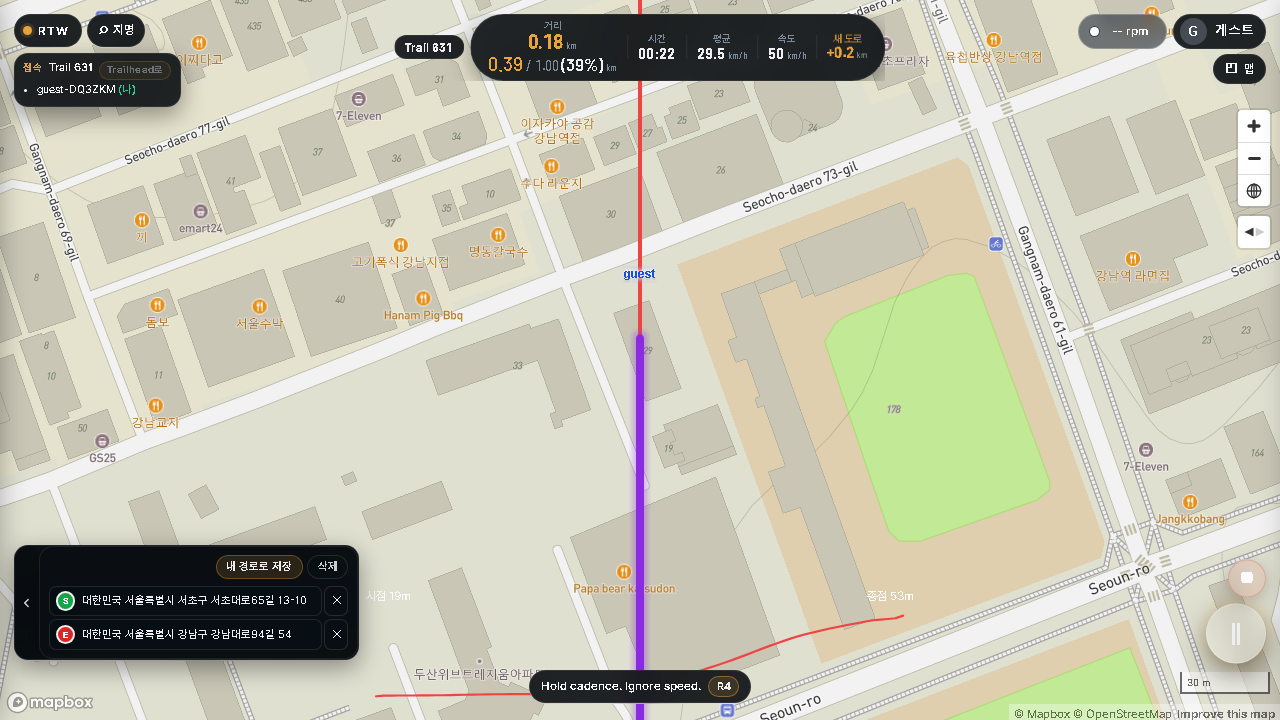
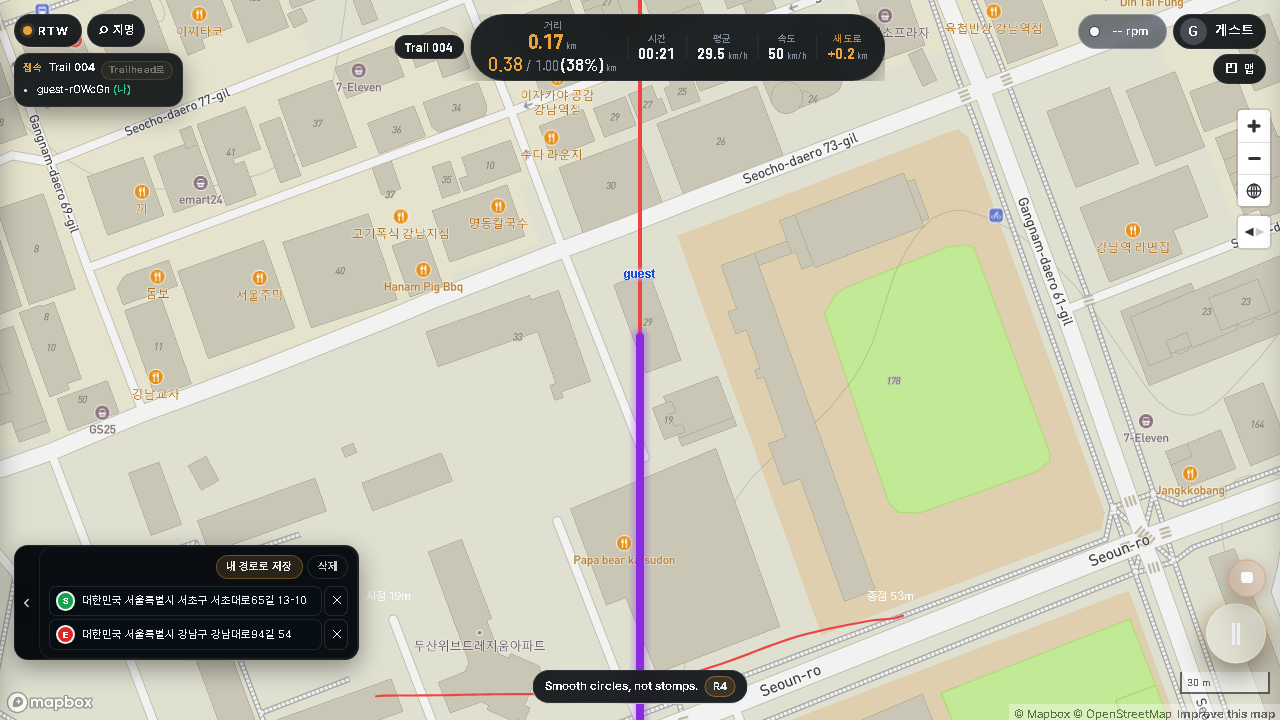
fix(route): 결과 시트를 닫으면 지도를 idle로 되돌려 다음 주행 카드를 띄운다
실주행 수용 1차 실패 — 결과 시트를 닫아도 카드가 나타나지 않고 reload 해야 보였다.

원인은 stage 충돌이다. 카드는 「Route 가 없는 idle 화면」의 표면인데(§3.1), 주행이
끝나도 방금 달린 Route·핀이 워크스페이스에 남아 stage 가 `ready-to-start` 로 머물렀다.
RouteDock 이 Go 를 다시 띄우고 카드는 조건을 만족하지 못해 숨었다. 카드를 stage 와
무관하게 띄우면 「카드와 확장된 RouteDock 을 동시에 표시하지 않는다」를 깨므로,
닫는 순간 워크스페이스를 비우는 쪽으로 고친다.

- `closeSummaryAndReturnToIdleMap()` — 닫기·스크림·ad-hoc 저장 완료가 모두 Route·핀·
  재개 후보를 비운다. 같은 경로는 카드의 「이어 달리기」가 다시 불러온다.
- 종료 시 `savedRoutes` 진행률 낙관 반영 — Firestore 왕복 전에도 카드가 올바른 재개
  지점을 보인다. 서버 transaction 과 같은 순수 정책이라 낮은 값으로 되돌리지 않는다.
- `progressToSave` 를 동기 구간으로 끌어올린다. 비동기 블록은 첫 await 뒤에 도는데
  그때는 `loadedSavedRouteProgressRef` 가 이미 0 으로 비워진 뒤라 max 보호가 무력했다.
- 재개점 마커 색을 골드(HUD 강조색)에서 「달린 길」과 같은 BlueViolet 으로 교정.

e2e C1 에 reload 없는 단언을 넣는다 — 결과 닫기 직후 카드 노출 + 재개 CTA +
`주행 시작` 부재. 화면 증거는 document/archive/ride-verify-evidence/ 에 남긴다.

훅 우회 사유: App.tsx 의 기존 react-hooks v7 baseline 위반에 파일 단위 lint 가 걸린다.
변경 파일 3종 lint 는 baseline 과 동일(E19 W5), 신규 진단 0건.

diff --git a/apps/web/src/hooks/useRideEndAndPersistence.ts b/apps/web/src/hooks/useRideEndAndPersistence.ts
@@ -23,6 +23,7 @@ import { MAX_ROUTE_WAYPOINTS } from "../lib/routeWaypoints";
 import { safeRideSpeechCancel } from "../lib/rideSpeech";
 import { loadRideSessions, saveRideSessions, type StoredRideSession } from "../lib/rideSessionsStorage";
 import { isDiscardableRideRecord, isRouteCompletion } from "../lib/rideRecordPolicy";
+import { resolveSavedRouteProgressUpdate } from "../lib/savedRouteProgressPolicy";
 import {
   loadSavedRoutesFromLocal,
   promoteSavedRouteInLocal,
@@ -179,6 +180,17 @@ export function useRideEndAndPersistence(options: UseRideEndAndPersistenceOption
     );
 
     /**
+     * 완주(≥98%)만 `completed:1` 로 격상하고 미완주는 진행률만 남긴다(§9.5).
+     * 진행률은 최대 도달점 유지 — 「처음부터 다시」 중간 종료가 기존 재개 지점을 지우지 않게 한다.
+     *
+     * ⚠ **동기 구간에서 계산한다.** 아래 비동기 블록은 첫 `await` 뒤에 실행되는데, 그때는
+     * 이 함수 끝에서 `loadedSavedRouteProgressRef.current = 0` 이 이미 실행된 뒤라
+     * 거기서 ref 를 읽으면 언제나 0 이었다(= max 보호가 무력화).
+     */
+    const rideCompletedRoute = isRouteCompletion(completionRatio);
+    const progressToSave = Math.max(completionRatio, previousProgressRatio);
+
+    /**
      * anchor 가 계획 핀과 사실상 같은 지점이면(전 구간 주행) 이미 확보한 지명을 그대로 쓴다.
      * 다르면(부분 주행) 아래 비동기 블록에서 anchor 좌표를 따로 역지오코딩한다.
      */
@@ -283,6 +295,41 @@ export function useRideEndAndPersistence(options: UseRideEndAndPersistenceOption
       });
     } else {
       setLastRideResult?.(null);
+    }
+
+    /**
+     * 진행률 낙관 반영(§3.5) — 결과 시트를 닫는 즉시 「다음 주행」 카드가 올바른 재개 후보를
+     * 보이려면, Firestore 왕복을 기다리지 않고 로컬 state 부터 올려야 한다.
+     * 규칙은 서버 transaction 과 동일한 순수 정책을 쓴다(낮은 값으로 되돌리지 않는다).
+     * 서버 판정이 오면 아래에서 그 값으로 정정한다.
+     */
+    if (!discardRecord && savedRouteIdAtEnd) {
+      const nowIso = new Date().toISOString();
+      setSavedRoutes((prev) =>
+        prev.map((r) => {
+          if (r.id !== savedRouteIdAtEnd) return r;
+          if (rideCompletedRoute) {
+            return {
+              ...r,
+              completed: 1,
+              completedAtIso: r.completedAtIso ?? nowIso,
+              expiresAtIso: null,
+              lastProgressRatio: 1,
+              updatedAtIso: nowIso,
+            };
+          }
+          const decision = resolveSavedRouteProgressUpdate(
+            { completed: r.completed, lastProgressRatio: r.lastProgressRatio },
+            progressToSave,
+          );
+          if (!decision.shouldWrite) return r;
+          return {
+            ...r,
+            lastProgressRatio: decision.nextProgressRatio,
+            updatedAtIso: nowIso,
+          };
+        }),
+      );
     }
 
     if (configured && !discardRecord) {
@@ -413,13 +460,6 @@ export function useRideEndAndPersistence(options: UseRideEndAndPersistenceOption
             markRouteActivityRideCompletedOptimistic(persistedPublicationId);
             onRideEndedWithPublication?.(persistedPublicationId);
           }
-          // 완주(≥98%)만 completed=1 로 격상. 미완주는 진행률만 저장해 「이어 달리기」로 남긴다(§9.5).
-          const rideCompletedRoute = isRouteCompletion(completionRatio);
-          // 진행률은 최대 도달점 유지 — "처음부터 다시" 중간 종료가 기존 재개 지점을 지우지 않게(§9.5.5 단위7)
-          const progressToSave = Math.max(
-            completionRatio,
-            Math.max(0, Math.min(1, loadedSavedRouteProgressRef?.current ?? 0)),
-          );
           if (savedRouteIdAtEnd && !savedRouteIdAtEnd.startsWith("local-")) {
             try {
               /**

diff --git a/apps/web/e2e/ride-continuation.spec.ts b/apps/web/e2e/ride-continuation.spec.ts
@@ -58,6 +58,12 @@ const U4_HUD_EVIDENCE_PATH = path.resolve(
   '../../document/archive/ride-verify-evidence/u4-hud-resume-dual.png',
 )
 
+/** U6 증거 — 결과 시트를 닫은 직후(reload 없이) 「다음 주행」 카드가 뜬 화면 */
+const C1_CARD_NO_RELOAD_EVIDENCE_PATH = path.resolve(
+  process.cwd(),
+  '../../document/archive/ride-verify-evidence/c1-next-ride-card-no-reload.png',
+)
+
 /** 게스트 진입 카드 → 익명 인증 완료 */
 async function enterAsGuest(page: Page) {
   await page.goto('/')
@@ -354,6 +360,22 @@ test.describe('다음 주행 · 이어 달리기', () => {
     await expect(summary.getByLabel('전체 진행')).toContainText('전체 진행 0% →')
     await expect(summary.getByText('다음 출발점이 저장되었습니다')).toBeVisible()
     await summary.getByRole('button', { name: '닫기' }).first().click()
+
+    /*
+     * U6 — **reload 없이** 결과를 닫는 즉시 카드가 나타나야 한다.
+     * 실주행 수용 실패의 원인은 stage 충돌이었다: 방금 달린 Route 가 지도에 남아
+     * `ready-to-start` 로 머물면 RouteDock 이 Go 를 다시 띄우고 카드는 숨는다.
+     * 그래서 「Go 가 없다」까지 함께 단언해 회귀를 고정한다.
+     */
+    const cardNoReload = nextRideCard(page)
+    await expect(cardNoReload).toBeVisible({ timeout: 15_000 })
+    await expect(page.getByRole('button', { name: '주행 시작' })).toHaveCount(0)
+    await expect(cardNoReload.getByRole('button', { name: /%에서 이어 달리기/ })).toBeVisible({
+      timeout: 15_000,
+    })
+    fs.mkdirSync(path.dirname(C1_CARD_NO_RELOAD_EVIDENCE_PATH), { recursive: true })
+    await page.screenshot({ path: C1_CARD_NO_RELOAD_EVIDENCE_PATH })
+    await page.screenshot({ path: testInfo.outputPath('c1-next-ride-card-no-reload.png') })
 
     // Firestore 진행률 반영을 기다린 뒤 재진입한다(결과 시트는 로컬 record 낙관 표시라 더 빠르다)
     await expect

diff --git a/apps/web/src/App.tsx b/apps/web/src/App.tsx
@@ -1767,12 +1767,25 @@ export default function App() {
     setPlaceSearchOpen(false);
   }
 
-  function handleCloseSummary() {
+  /**
+   * 결과 시트를 닫고 **지도를 idle 로 되돌린다**(§3.1·§3.5).
+   *
+   * ⚠ 방금 달린 Route 를 지도에 남겨 두면 stage 가 `ready-to-start` 로 머물러
+   * RouteDock 이 Go 를 다시 띄우고 「다음 주행」 카드는 숨는다 — 실주행에서 종료 직후
+   * 카드가 안 보이던 원인이 이 stage 충돌이었다. 카드는 「Route 가 없는 idle 화면」의
+   * 표면이므로, 결과를 닫는 순간 워크스페이스를 비워 카드가 즉시 나타나게 한다.
+   * 같은 경로를 다시 타려면 카드의 「이어 달리기」가 다시 불러온다(처음부터는 RouteDock 보조 선택).
+   */
+  function closeSummaryAndReturnToIdleMap() {
     setSummarySheetVisible(false);
     resetArrivalToast();
     setLastEndedWasAdhoc(null);
-    // 닫으면 지도 위 「다음 주행」 카드가 즉시 갱신된다(카드는 최근 Ride·SavedRoute 파생).
     setLastRideResult(null);
+    clearRoutePins(routeMenuLockedForProd);
+  }
+
+  function handleCloseSummary() {
+    closeSummaryAndReturnToIdleMap();
   }
 
   function handleModifyFromPause() {
@@ -2341,9 +2354,8 @@ export default function App() {
         suggestedName={suggestedRouteName}
         onSaveAdhoc={async (name, confirmUpdate) => {
           await handleSaveAdhocAsUserRoute(name, confirmUpdate);
-          setSummarySheetVisible(false);
-          resetArrivalToast();
-          setLastRideResult(null);
+          // 저장 후에도 같은 규칙 — 지도를 idle 로 되돌려야 카드가 다음 행동을 제시한다.
+          closeSummaryAndReturnToIdleMap();
         }}
         onDismissAdhoc={() => setLastEndedWasAdhoc(null)}
         onClose={handleCloseSummary}

diff --git a/apps/web/src/tokens.css b/apps/web/src/tokens.css
@@ -29,6 +29,12 @@
   --rtw-trace-accumulated: rgba(232, 163, 61, 0.4);
   --rtw-trace-warn-bg: rgba(232, 163, 61, 0.08);
   --rtw-trace-warn-border: rgba(232, 163, 61, 0.25);
+  /*
+   * 내가 달린 길(내 도로망·이번 주행 궤적) — 2026-08-27 결정의 BlueViolet.
+   * 지도 레이어의 SoT 는 `lib/rtwMapConfig.ts` 의 `RTW_TRACE_OWNED_COLOR` 이며,
+   * 이 토큰은 지도 밖 UI(재개점 마커 등)가 같은 색을 쓰기 위한 CSS 사본이다 — 함께 바꾼다.
+   */
+  --rtw-trace-owned: #8A2BE2;
 
   /* ---- 텍스트 ---- */
   --rtw-text-primary: #EDEFF2;

diff --git a/apps/web/src/components/map/MapView.css b/apps/web/src/components/map/MapView.css
@@ -669,8 +669,9 @@
 .map-view__resume-marker {
   padding: 0.2rem 0.45rem;
   border-radius: 999px;
-  background: var(--rtw-trace, #e93bd0);
-  color: #10151f;
+  /* 「달린 길」과 같은 색 — 골드(--rtw-trace)는 HUD 강조색이라 궤적 이야기와 어긋난다(2026-08-27 결정) */
+  background: var(--rtw-trace-owned, #8a2be2);
+  color: #f8fafc;
   font-size: 0.66rem;
   font-weight: 800;
   white-space: nowrap;

diff --git a/document/260707-RTW-기능-인벤토리-상태보드.md b/document/260707-RTW-기능-인벤토리-상태보드.md
@@ -95,6 +95,7 @@ mindmap
 | 3D 측면 카메라 건물 가림 | 🔶 | 알려진 문제. 주행 기본 2D로 완화 | 3D 유지 여부 결정 |
 | 슬로우 스타트/스톱 (고정속도 가감속) | ✅ | **구현(07-14)** — `rideSpeedRamp.ts`(고정 가속 +3/감속 -5 km/h/s) + `useVirtualRideSession`의 `appliedSpeedRef` 램핑. 시작(0→목표)·슬라이더 조작(상향/하향 모두) 시 서서히 수렴, 일시정지·종료는 즉시 정지(감속 연출 없음 — 반응성·기록 정확성 우선). HUD 속도·페달 애니메이션도 동일 곡선 동기화. Playwright 실측 검증(0→20km/h ~7초 선형 가속, 20→5 선형 감속, pause 즉시 정지) | — |
 | BLE 케이던스 **프로토콜 수신** (CSC `0x1816`) | ✅ | `useBleCrankRpm` + `lib/bleCscCadence.ts`(파서·rollover·정지 판정 순수 모듈, Node 시험 25건). Chromium·HTTPS/localhost | — |
+| **HUD 거리 이중 표기 (오늘 + 누적·진행률)** | ✅ | **구현(08-29, U4)** — 주행 중 거리 셀에 「오늘 N km」(세션)와 「누적 M / 전체 km (P%)」(경로 위치)를 함께 표시. 인정 축(운동·칼로리·Claim·기록)은 그대로 세션 구간. `aria-label="오늘 거리"`·`"누적 진행"` 으로 계약 고정, e2e C1 이 재개 직후 「누적 ≥ offset · 오늘 ≈ 0」 단언. 증거 `document/archive/ride-verify-evidence/u4-hud-resume-dual.png` | — |
 | **케이던스로 가상 주행 속도 직접 제어** | ✅ | **구현·실물 검증(08-27~28)** — 입력 모드 `manual`/`cadence` 분리, `cadence` 목표 속도 `min(30, rpm × 0.32)`(deadzone 8rpm), 단절·정지 시 목표 0(자동 manual fallback 없음). CYCPLUS C3 실주행 통과: P1~P7·P9·P10(연결·RPM 표시·페달링 전진·정지 감속·재개·일시정지). **미확인 P8·P11·P12**(주행 중 전원 차단·종료 후 연결 유지·명시적 체험 전환) | P8·P11·P12 단절 시나리오 |
 | **HUD 전역 센서 상태 칩** (계정 칩 왼쪽) | ✅ | **코드 반영(08-27, SENSOR-2)** — `CadenceHudChip` + `lib/cadenceSensorUi.ts`(흰/초록 LED 2색만, 주행 전 `CAD`·주행 중 `N rpm`, 장치명은 칩에 넣지 않음). 칩 클릭 → 전용 `CadenceSensorSheet`(장치 전체명·연결/해제·모드 전환·체험 속도). RouteDock·주행 설정·MENU 의 중복 센서 UI 제거. 표시 계약 Node 시험 17건. **실물 통과 H1~H6·H9·H13·H14**(칩 표시·상세 열림·chooser·장치명 분리·RPM 갱신·계정 버튼 충돌 없음·좁은/가로 화면). **미확인 H11·H12**(단절 후 재연결·manual 주행 중 센서 열기) | H11·H12 |
 | **주행 입력 준비 게이트 (Go 사전조건)** | ✅ | **코드 반영(08-27, SENSOR-2)** — `RideInputReadiness` 5상태. 기본 `manual` 초기값은 선택이 아니며, 「체험 속도로 준비」 명시 선택 또는 cadence 연결+**유효 RPM 1회 확인**이 있어야 Go 가능. Go 전 단절 시 준비 해제. `ride-entry` e2e 6건이 잠김·해제를 고정. **실물 통과(H5~H8)** — 준비 전 Go 잠김을 폰에서 실제로 겪고 해소 확인 | — |
@@ -102,6 +103,7 @@ mindmap
 | 허용된 센서 자동 복원·재연결 | 🔶 | **코드 반영(08-27)** — 최초 chooser 허용 뒤 같은 문서는 장치 참조를 보존하고, 페이지 복귀는 `getDevices()`의 명확한 단일 후보를 복원. 단절 시 광고 감지 + 0.5~10초 백오프로 GATT·CSC notification 재구성. 명시적 해제·백그라운드에서는 중단. 연결 복구 시 cadence 입력 모드도 복원 | CYCPLUS C3 유휴 단절→페달 wake 물리 검증. 최초 권한·브라우저/OS 한계 안내 유지 |
 | 고정속도 상한 15~18km/h | 🔶⚠ | T0 정책 15 설계 ↔ **개발완화 50 적용 중** | [출시 전 복원](출시%20전%20확인사항.md) |
 | **「다음 주행」 카드 (지도 위 다음 행동 주 표면)** | ✅ | **구현(08-29, RIDE-CONTINUE-1 단계 D·E)** — 최근 Ride + SavedRoute 에서 **파생**하는 후보(`lib/nextRideTarget.ts`, mutable pointer 문서 없음). idle 지도 좌하단 RouteDock anchor 자리에 「N%에서 이어 달리기」·「이 지점에서 새 경로」·「지도에서 보기」 제시. CTA 는 `ready-to-start` 까지만 만들고 실제 시작은 기존 Go·입력 준비 게이트 유지. 재개 준비 시 완료 구간 마젠타 / 남은 구간 빨강 / 「N% · 여기서 계속」 마커. 시험: `test:next-ride` 40건 + e2e C1·C2·C4 | — |
+| **주행 종료 후 idle 복귀** | ✅ | **수정(08-29, 실주행 수용 1차 실패 대응)** — 결과 시트를 닫으면 방금 달린 Route·핀·재개 후보를 비워 `stage` 를 idle 로 되돌린다. 이전에는 `ready-to-start` 로 머물러 RouteDock 이 Go 를 다시 띄우고 「다음 주행」 카드가 숨었다(reload 해야 보임). 종료 시 진행률 낙관 반영으로 Firestore 왕복 전에도 재개 지점이 정확하다. e2e C1 이 reload 없는 노출을 단언, 증거 `document/archive/ride-verify-evidence/c1-next-ride-card-no-reload.png` | — |
 | **실제 세션 시작·종료 anchor** | ✅ | **구현(08-29, RIDE-CONTINUE-1 단계 B)** — `rides` 에 `sessionStart/EndLngLat`·`RouteMeters`·`ProgressRatio`·실제 세션 지명 저장. 계획된 `endLngLat` 이 아니라 **실제 종료 누적 거리 지점**이 다음 출발점이 된다. `liveForMap` 과 같은 경계 함수(`routeProgressMath.ts`)를 공유하고, geometry 가 없으면 좌표는 null(추측 금지·legacy backfill 없음) | — |
 | **모든 유효 Ride 결과 시트** | ✅ | **구현(08-29, RIDE-CONTINUE-1 단계 C)** — 도착·ad-hoc 여부로 노출을 제한하던 조건을 폐기하고 `isDiscardableRideRecord` 를 통과한 모든 Ride 가 결과를 연다. 미완주는 「전체 진행 31% → 43%」, 완주는 「경로를 완주했습니다」, 공통으로 「다음 출발점이 저장되었습니다」 + 새 경로 연결 CTA. ad-hoc 저장은 보조 액션이 되고 「저장 안 하면 잃는다」 경고는 제거 | — |
 | **최근 주행 행 액션** | ✅ | **구현(08-29, RIDE-CONTINUE-1 단계 F)** — 읽기 전용 목록에 지도에서 보기·이어 달리기·여기서 새 경로를 붙였다(중첩 button 없는 row action 구조). 실제 종료점이 없는 legacy Ride 는 기록만 표시하고 CTA 를 만들지 않는다(e2e C5) | — |

diff --git a/document/260707-RTW-결정-로그.md b/document/260707-RTW-결정-로그.md
@@ -12,6 +12,7 @@
 
 | 날짜 | 태그 | 결정 | 이유 (한 줄) | 근거·상세 |
 |---|---|---|---|---|
+| 2026-08-29 | `[Route]` `[UI]` | **주행 결과 시트를 닫으면 지도를 idle 로 되돌린다** — 방금 달린 Route·핀·재개 후보를 워크스페이스에서 비우고, 그 자리에 「다음 주행」 카드를 띄운다. 같은 경로를 다시 타려면 카드의 「이어 달리기」가 다시 불러오고, 「처음부터」는 그 뒤 RouteDock 보조 선택으로 남는다. 아울러 종료 시 진행률을 **낙관 반영**해 Firestore 왕복 전에도 카드가 올바른 재개 지점을 보인다 | 실주행 수용 1차 실패의 원인 — 결과를 닫아도 방금 달린 Route 가 지도에 남아 stage 가 `ready-to-start` 로 머물렀고, RouteDock 이 Go 를 다시 띄우면서 카드는 「Route 없는 idle」 조건을 만족하지 못해 숨었다. reload 해야 카드가 보이는 상태는 「어제 멈춘 곳이 오늘 자동으로 다음 출발점이 된다」를 만족하지 못한다 | [작업지시서 §12.4](ops/ride-relay/260829-다음-주행-이어달리기-작업지시서.md) · 증거 `document/archive/ride-verify-evidence/c1-next-ride-card-no-reload.png` · e2e C1 |
 | 2026-08-29 | `[Route]` `[UI]` | **HUD 거리 이중 표기 확정** — 주행 중 거리 셀에 **오늘 N km**(세션 실주행)와 **누적 M / 전체 km (P%)**(경로 위치·진행률)를 함께 표시한다. 운동·칼로리·Claim·Ride 기록은 기존처럼 세션 구간만 인정(`virtualDistance − offset`, `fromMeters`). `aria-label="오늘 거리"`·`"누적 진행"`으로 E2E 계약 고정 | RIDE-CONTINUE-1 구현 당시 HUD 는 「오늘 / 전체」만 보여 U4(위치는 누적)와 어긋났다 — 재개 주행에서 「얼마나 더 달렸나(오늘)」와 「경로 어디까지 왔나(누적)」를 한 화면에 분리해 보여 줘야 이어 달리기 판타지가 성립 | `MapHud.tsx` · `App.tsx` · `ride-continuation.spec.ts` · [작업지시서 U4](ops/ride-relay/260829-다음-주행-이어달리기-작업지시서.md) |
 | 2026-08-29 | `[Route]` `[Infra]` | **RIDE-CONTINUE-1 구현 확정** — ① 진행률의 진실을 **서버 문서**로 옮겼다: `updateSavedRouteProgressInFirestore` 를 transaction 으로 바꿔 `max(server, requested)` 를 보장하고, 완주 문서는 되돌리지 않으며 stale write 는 `lastRideId` 도 덮지 않는다(규칙은 순수 모듈 `savedRouteProgressPolicy.ts` 하나로 로컬·중복 저장과 공유) ② 다음 주행 후보는 pointer 문서 없이 최근 Ride + SavedRoute 파생, 재개점의 진실은 **SavedRoute 의 `lastProgressRatio`**(최근 Ride 종료 좌표가 아니다) ③ 카드는 SavedRoute 첫 로드가 끝나기 전에는 뜨지 않는다 — 빈 목록으로 재개 가능한 Route 를 놓치고 「새 경로」로 잘못 제시하는 창을 막는다 ④ ~~HUD 거리 표기는 이번 범위에서 바꾸지 않았다~~ → **후속 결정으로 U4 HUD 이중 표기 반영**(위 항목) | 클라이언트가 계산한 `max` 를 그대로 덮어쓰면 다른 탭·기기의 늦은 낮은 진행률이 높은 진행률을 되돌린다 — 「어제 멈춘 곳」이 조용히 뒤로 밀리는 건 이 기능의 전제를 깨는 실패다. 후보를 파생으로 두면 Route 삭제·완주 시 카드가 자동 무효화되어 stale 상태를 시작할 수 없다 | [RIDE-CONTINUE-1 작업지시서](ops/ride-relay/260829-다음-주행-이어달리기-작업지시서.md) · `lib/savedRouteProgressPolicy.ts` · `lib/nextRideTarget.ts` · `lib/rideSessionAnchors.ts` |
 | 2026-08-29 | `[Product]` `[Route]` `[UI]` | **최근 Ride를 기록에서 다음 행동으로 연결** — 모든 유효 Ride 종료 후 결과 시트를 열고 실제 세션 종료 좌표를 사용자 전용 Ride에 저장한다. idle 지도는 최근 Ride+SavedRoute에서 파생한 **「다음 주행」** 카드를 먼저 보여 준다. 미완주 SavedRoute는 기존 진행점에서 재개하고, 완주·ad-hoc·Publication Ride는 실제 종료점에서 새 Route를 만든다. 카드 CTA는 Route 준비까지만 수행하며 실제 시작은 기존 Go·입력 준비 게이트를 유지한다. SavedRoute geometry는 mutate하지 않고 `Journey` 용어·새 모델도 이번에 확정하지 않는다. | 현행 이어 달리기는 계산상 구현됐지만 `MENU→내 경로→선택→열기` 뒤에 숨고 재개 후보도 주행 시작 때 소멸한다. 최근 주행은 읽기 전용이며 실제 종료 좌표도 없어, 어제의 끝이 오늘의 시작으로 자동 이어지지 않는다. 별도 주행일지 없이 지도가 다음 행동을 기억해야 개인 도로망 축적 루프가 성립한다. | [RIDE-CONTINUE-1 작업지시서](ops/ride-relay/260829-다음-주행-이어달리기-작업지시서.md) · [Conquest §9.5](260703-Conquest-정복-레이어-설계.md) |

diff --git a/document/ops/ride-relay/260829-다음-주행-이어달리기-작업지시서.md b/document/ops/ride-relay/260829-다음-주행-이어달리기-작업지시서.md
@@ -657,9 +657,34 @@ npm run test:e2e:ride-continuation
 | `npm run test:e2e:ride-continuation` | **C1~C5 5 pass / 0 fail** (4.9분) |
 | lint(변경 파일 20개) | 변경 전 E22 W13 → 변경 후 **E22 W13**, 신규 진단 **0건** |
 
-### 12.3 남은 항목 (병합 전 판단 필요)
+### 12.3 실주행 수용 1차 실패와 수정 (2026-08-29)
 
-1. ~~**U4 의 HUD 표기**~~ — **2026-08-29 반영**: 주행 중 「오늘 N km」+「누적 M / 전체 (P%)」이중 표기. `aria-label`·C1 E2E·결정 로그 동기화.
+**증상** — 결과 시트를 닫아도 「다음 주행」 카드가 나타나지 않고, reload 해야 보였다.
+
+**원인 (stage 충돌)** — 카드는 §3.1 대로 「Route 가 없는 idle 화면」에서만 뜨는데, 주행이 끝나도
+방금 달린 Route·핀이 워크스페이스에 남아 `stage` 가 `ready-to-start` 로 머물렀다. 그래서 RouteDock 이
+Go 를 다시 띄우고 카드는 숨었다. 카드를 stage 와 무관하게 띄우면 §3.1 의 「카드와 확장된 RouteDock 을
+동시에 표시하지 않는다」를 깨므로, **닫는 순간 지도를 idle 로 되돌리는 쪽**으로 고쳤다.
+
+**수정**
+
+1. `closeSummaryAndReturnToIdleMap()` — 결과 시트를 닫거나 ad-hoc 저장을 마치면
+   `clearRoutePins` 로 Route·핀·재개 후보를 비운다 → `stage === "idle"` → 카드 즉시 노출.
+2. 종료 시 `savedRoutes` 진행률 **낙관 반영** — Firestore 왕복을 기다리지 않아도 카드가 올바른
+   재개 지점을 보인다. 규칙은 서버 transaction 과 같은 순수 정책이라 낮은 값으로 되돌리지 않는다.
+3. 부수 결함 — `progressToSave` 를 비동기 블록에서 계산하면서 `loadedSavedRouteProgressRef` 를
+   읽고 있었는데, 그 시점엔 동기 구간 끝에서 ref 가 이미 `0` 으로 비워진 뒤였다(= `max(기존,신규)`
+   보호가 무력). 동기 구간으로 끌어올려 고쳤다.
+4. 재개점 마커 색이 골드(`--rtw-trace`, HUD 강조색)였다 → 「달린 길」과 같은 BlueViolet
+   (`--rtw-trace-owned`)로 교정(2026-08-27 색 결정과 정합).
+
+**증거** — `document/archive/ride-verify-evidence/c1-next-ride-card-no-reload.png`
+(결과 닫은 직후, reload 없이 카드 노출 · Go 없음).
+e2e C1 이 「카드 노출 + 재개 CTA + `주행 시작` 부재」를 함께 단언해 회귀를 고정한다.
+
+### 12.4 남은 항목 (병합 전 판단 필요)
+
+1. ~~**U4 의 HUD 표기**~~ — **2026-08-29 반영**: 주행 중 「오늘 N km」+「누적 M / 전체 (P%)」이중 표기. `aria-label`·C1 E2E·결정 로그 동기화. 증거 `document/archive/ride-verify-evidence/u4-hud-resume-dual.png`.
 2. **U1~U14 화면 수용** — 자동 검증이 C1~C5 로 대응 시나리오를 덮지만, 모바일 가로(U13)·
    키보드/스크린리더(U14)는 사용자 눈 확인이 필요하다.
 3. **중복 저장 시 이름** — dedupe 분기는 여전히 Firestore 에 이름을 쓰지 않으면서 입력 이름을 돌려준다
